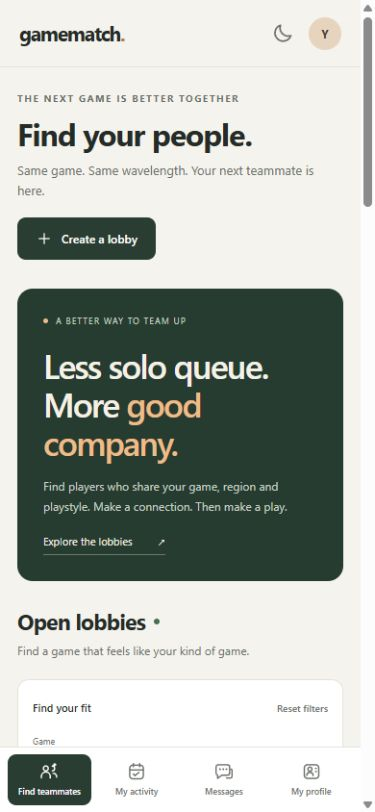
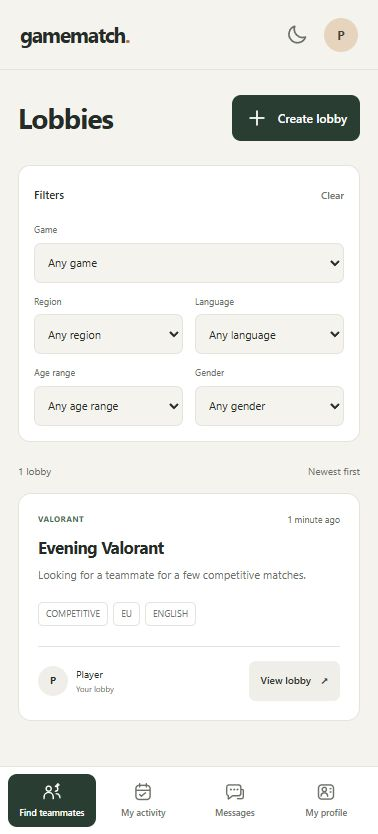
Update docs

diff --git a/docs/deployment.md b/docs/deployment.md
@@ -1,32 +1,30 @@
 # Vercel deployment
 
-The repository contains separate Angular and Express applications. PostgreSQL stays in an external persistent database; Vercel deployments do not store application data on disk or in memory.
+- Frontend: https://gamematch-kkostia.vercel.app (Vercel project `gamematch-kkostia`, Root Directory `client`)
+- API: https://gamematch-api.vercel.app (Vercel project `gamematch-api`, Root Directory `server`)
+- Database: Neon `gamematch-db`, Free plan, London region
+- Authentication: Clerk `gamematch-auth`, Hobby plan
 
-## API project
+The frontend and Express API run on Vercel. Lobbies, requests and messages persist in Neon PostgreSQL. Clerk stores accounts and profile metadata. No application data is stored in serverless memory.
 
-Create a Vercel project with Root Directory `server` and framework Express. Set `DATABASE_URL`, `CLERK_SECRET_KEY` and `CLERK_PUBLISHABLE_KEY` as environment variables. Use the PostgreSQL provider's connection URL with its TLS settings. The two Clerk keys must belong to the same application.
+## Environment variables
 
-Copy the same values into a local, gitignored `server/.env` and run `npm run db:init` inside `server` once before deployment. This creates missing tables without deleting existing tables or rows. Schema creation does not run during serverless requests.
+The Neon and Clerk integrations supply the API's `DATABASE_URL`, `CLERK_SECRET_KEY` and `NEXT_PUBLIC_CLERK_PUBLISHABLE_KEY`. The API also accepts `CLERK_PUBLISHABLE_KEY` for other setups. Both keys must belong to the same Clerk application.
 
-Deploy the project and record its HTTPS origin. `/api/check` checks that the application responds; `/api/posts` also exercises the database and should return JSON, with a 503 when storage is unavailable.
+The frontend requires `GAMEMATCH_API_URL` and `CLERK_PUBLISHABLE_KEY`. `client/vercel.json` runs `npm run build:vercel`, which embeds these public settings in the Angular build. Never copy the Clerk secret or database URL to the frontend.
 
-## Frontend project
+Local environment files and Vercel project metadata are gitignored. Initialize missing database tables with `npm run db:init` inside `server`. This does not delete existing rows, and schema creation does not run during API requests.
 
-Create a Vercel project with Root Directory `client`, framework Angular, and these environment variables:
+## Updates
 
-- `GAMEMATCH_API_URL` � the API project's HTTPS origin
-- `CLERK_PUBLISHABLE_KEY` � the matching Clerk publishable key
+Run `vercel deploy --prod` separately inside `server` and `client`, linked to their respective projects. `/api/check` checks that the API responds; `/api/posts` also checks storage.
 
-`client/vercel.json` sets `npm run build:vercel` and output `dist/client/browser`. The build script updates the frontend API origin and Clerk script. These are public configuration values; never set `CLERK_SECRET_KEY` on the frontend. The build fails if either required setting is missing.
+On 9 October 2026 the deployed API was verified with two temporary Clerk accounts: signed requests, lobby creation/readback/filtering/editing, ownership checks, joining, host acceptance, messages in both directions, profile metadata and deletion. Temporary accounts and rows were removed after the check. The eight backend regression checks and four frontend checks also passed.
 
-Configure the final frontend domain and allowed redirect URLs in the Clerk dashboard. Deploy, then verify sign-in, creating a lobby, a join request from another account, acceptance by the host, and a message between those accounts. Production has not been validated until this check runs with a real database and Clerk application.
+## Clerk environment
 
-## Interface deployment
+The current `vercel.app` deployment uses a Clerk development instance with real accounts and persistence. The Clerk form displays its development notice. A custom domain and production Clerk instance are required for a production authentication setup. See [Clerk environments](https://clerk.com/docs/guides/development/managing-environments) and [production setup](https://clerk.com/docs/guides/development/deployment/production).
 
-The current published interface is https://gamematch-design-preview.vercel.app. It is a separate static project built with `npm run build:preview`. It uses example data held in the browser's memory and does not access the production API or Clerk. Refreshing resets its state. The product interface contains no development banners; this document records the deployment's actual capabilities.
+## Local interface preview
 
-For updates, run `npm run build:preview` inside `client`, then deploy `client/dist/design-preview/browser` to the existing `gamematch-design-preview` Vercel project. After a clean build, link this output directory to that project before deploying again; `.vercel` metadata is not versioned.
-
-## Current prerequisites
-
-As of 9 October 2026, the original frontend and Render API addresses returned 404. Vercel account access has been confirmed and the interface deployment is live. Restoring persistent application behavior requires the owner's working PostgreSQL and Clerk configuration, which is not stored in this repository.
+`npm run design-preview` inside `client` uses separate in-memory fixtures for local interface work. Changes reset after reload. The previous static deployment at https://gamematch-design-preview.vercel.app runs this mode; the main GameMatch link above uses the real API and database.

diff --git a/README.md b/README.md
@@ -2,7 +2,7 @@
 
 GameMatch helps players find a teammate for their next game. Hosts create lobbies, players filter by game and preferences, and accepted teammates can plan a session through direct messages.
 
-[View the interface](https://gamematch-design-preview.vercel.app)
+[Open GameMatch](https://gamematch-kkostia.vercel.app)
 
 ## Features
 
@@ -32,7 +32,7 @@ Copy `server/.env.example` to `server/.env` and set your PostgreSQL connection a
 
 Initialize the database once with `npm run db:init` inside `server`. Start the API with `npm start` inside `server`, and start Angular with `npm start` inside `client`. Open http://localhost:4200. The local frontend uses http://localhost:3000.
 
-To view the interface without external services, run `npm run design-preview` inside `client`. This separate build uses in-memory example lobbies, profiles and messages. Changes reset when the page reloads. It does not contain accounts, saved user data or a live backend. The hosted interface link above runs this configuration. Production builds exclude these fixtures and require real authentication.
+To view the interface without external services, run `npm run design-preview` inside `client`. This separate build uses in-memory example lobbies, profiles and messages. Changes reset when the page reloads. It does not contain accounts, saved user data or a live backend. Production builds exclude these fixtures. The live site uses Clerk accounts and persistent Neon PostgreSQL storage.
 
 ## Deployment
 
@@ -52,8 +52,8 @@ The API checks cover authentication, host permissions, failed persistence and ac
 
 ## Team
 
-- Maksymilian � frontend
-- Kostiantyn � database and backend
-- Flavius � testing
+- Maksymilian: frontend
+- Kostiantyn: database and backend
+- Flavius: testing
 
 The original group project is maintained at [FlaviusCrisan/GroupProject](https://github.com/FlaviusCrisan/GroupProject). Brand icon source and licensing are documented in [client/public/icons](client/public/icons/README.md).

diff --git a/docs/design.md b/docs/design.md
@@ -1,9 +1,11 @@
-# Interface design
+# Interface
 
-The visual direction was inspired by the Community App reference at [MotionSites](https://motionsites.ai/?prompt=social-hangouts): an easy-to-scan sidebar, a focused feed and clear navigation. No template code or paid prompt was copied.
+The interface uses a warm neutral background, green actions and local SVG icons. Discord, Steam and Riot use brand paths from Simple Icons. Navigation becomes a bottom bar on mobile. Light and dark themes are available.
 
-GameMatch uses a warm neutral background, forest green actions and amber highlights. A shared local SVG component supplies interface icons. Discord, Steam and Riot use their brand paths from Simple Icons. Cards use CSS artwork, and the controller illustration and navigation icons are repository-native SVGs. The layout adapts to a mobile bottom navigation bar and supports a dark theme.
+Pages use short headings, functional labels and error messages. Lobbies show the game, preferences, host and description without promotional artwork or banners.
 
-![Home](screenshots/home-desktop.png)
+![Lobbies](screenshots/home-desktop.png)
 
-![Player profile](screenshots/profile-desktop.png)
+![Mobile navigation](screenshots/home-mobile.png)
+
+The initial layout reference was the [MotionSites community app](https://motionsites.ai/?prompt=social-hangouts). No template code was copied.
